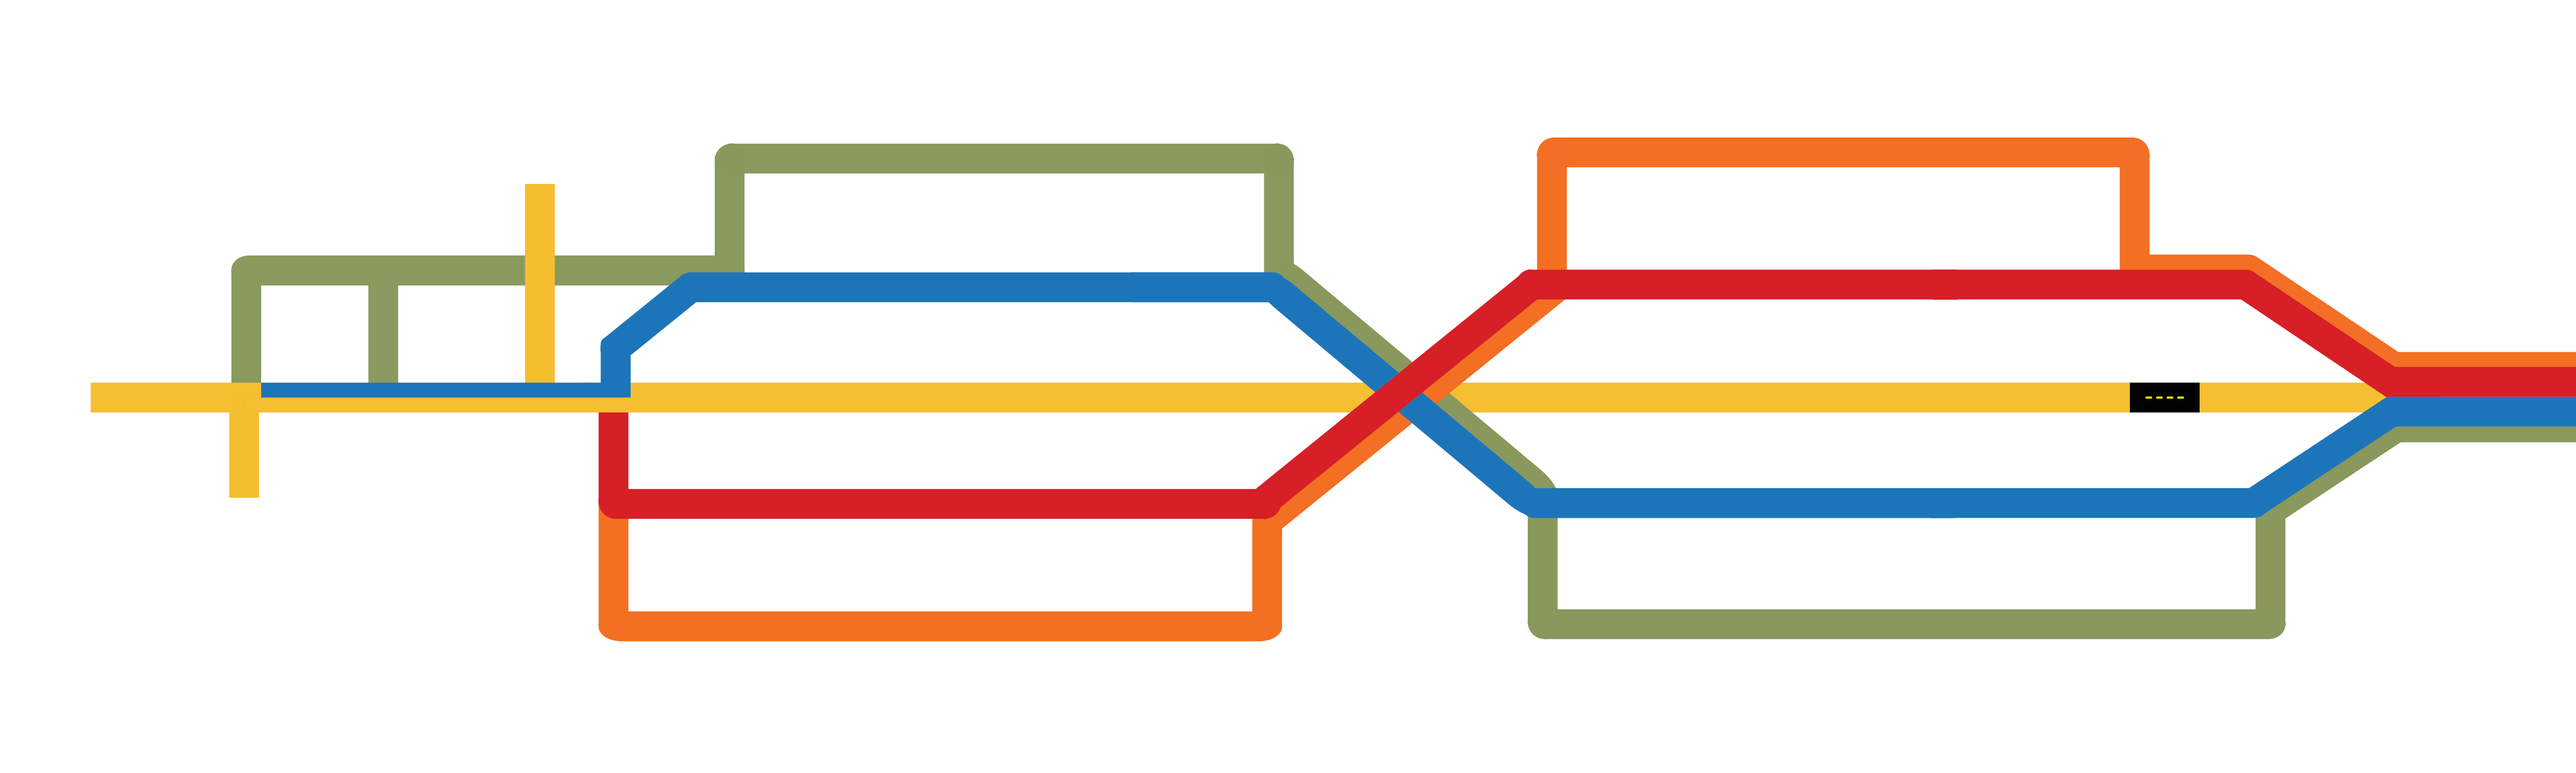
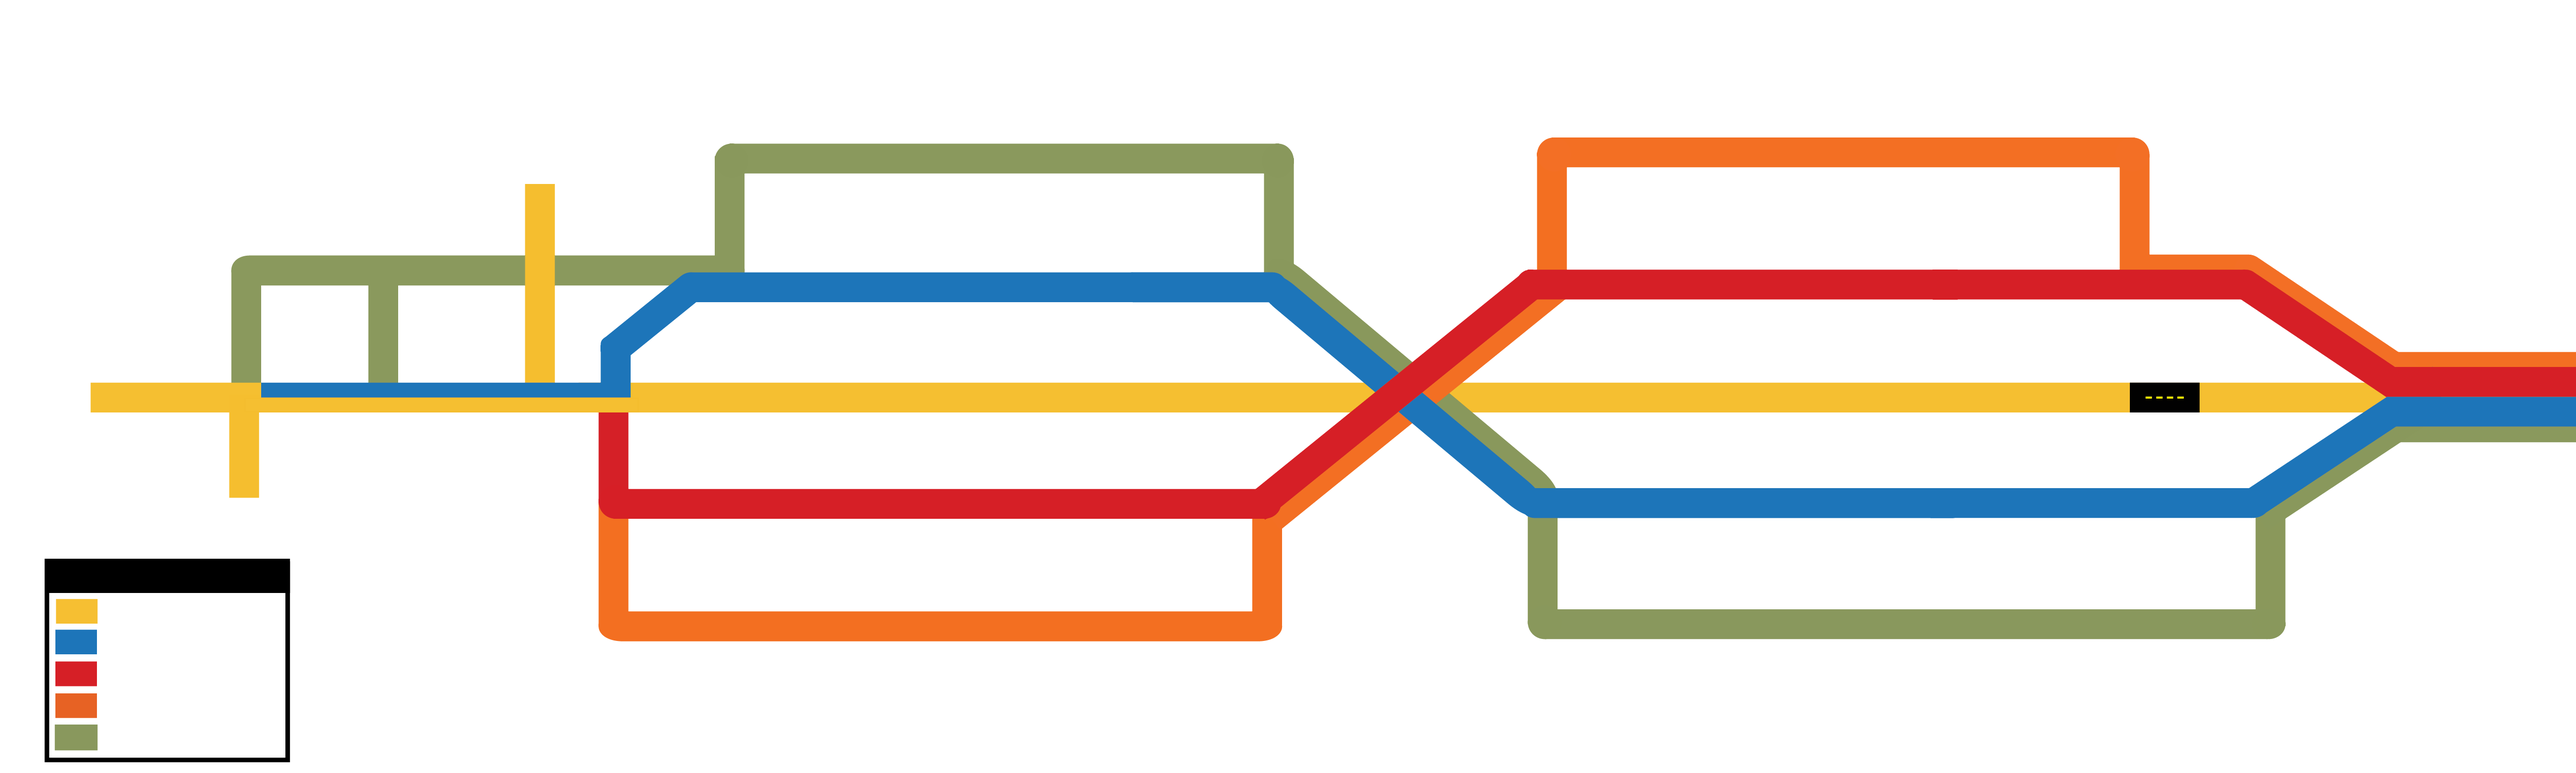
13th commit

Changed region(s): [[0.0, 0.7063, 0.1244, 1.0]]

diff --git a/index.html b/index.html
@@ -783,6 +783,35 @@
 
           <!-- Professional Skills Line Stops Ends Here -->
 
+          <!-- Key Starts Here -->
+
+          <g class="keyInfo" x="162.314" y="558.852">
+              <text id="keyTitle" transform="translate(162.314,564.852)">Key</text>
+          </g>
+
+          <g class="keyInfo" x="97.006" y="605.086">
+              <text transform="translate(97.006,605.086)">Life Line</text>
+          </g>
+
+
+          <g class="keyInfo" x="97.006" y="634.008">
+              <text transform="translate(97.006,634.008)">Educational Line</text>
+          </g>
+
+          <g class="keyInfo" x="97.006" y="667.028">
+              <text transform="translate(97.006,667.028)">Professional Line</text>
+          </g>
+
+          <g class="keyInfo" x="97.006" y="697.172">
+              <text transform="translate(97.006,697.172)">Professional Skillset</text>
+          </g>
+
+          <g class="keyInfo" x="97.006" y="727.557">
+              <text transform="translate(97.006,727.557)">Arts &amp; Design Skillset</text>
+          </g>
+
+          <!-- Key Ends Here -->
+
         </svg>
 
       </div>
@@ -866,7 +895,7 @@
 
     <div id="openupr-rp" class="modalDialog">
 
-      <div>
+      <div class="modal-img">
         <a href="#close" title="Close" class="close">X</a>
         <img src="./resources/images/diploma-ba.jpg" alt="">
         <h2>UNIVERSITY OF PUERTO RICO Río Piedras – San Juan, PR</h2>
@@ -907,7 +936,7 @@
 
     <div id="openDE1" class="modalDialog">
 
-      <div>
+      <div class="modal-text">
         <a href="#close" title="Close" class="close">X</a>
         <h2>PUERTO RICO DEPARTMENT OF EDUCATION – San Juan, PR</h2>
         <h4>Art Teacher at Felipe Gutiérrez and Eleanor Roosevelt Elementary School</h4>

diff --git a/resources/css/style.css b/resources/css/style.css
@@ -50,7 +50,16 @@ section#background-metromap {
 
   /* Prof Skills Line */
 
+.keyInfo text {
+  font-family: 'Didact Gothic', sans-serif;
+  font-size: 20px;
+  text-anchor: start;
+}
 
+text#keyTitle {
+  fill: white;
+  text-anchor: middle;
+}
 
 /* Tooltips */
   .tooltip {
@@ -128,26 +137,26 @@ section#background-metromap {
     text-align: center;
   }
 
-  .modalDialog h2 {
+  .modal-text h2 {
     font-size: 1.5rem;
     padding-bottom: 0.5rem;
   }
 
-  .modalDialog h4 {
+  .modal-text h4 {
     font-size: 1.25rem;
     font-weight: bold;
     margin-top: .5rem;
     padding-bottom: 0.5rem;
   }
 
-  .modalDialog ul {
+  .modal-text ul {
     line-height: 1.5;
     list-style-type: square;
     margin-left: 1rem;
     text-align: justify;
   }
 
-  .modalDialog li{
+  .modal-text li{
     padding-top: 0.5rem;
     padding-bottom: 0.5rem;
   }
